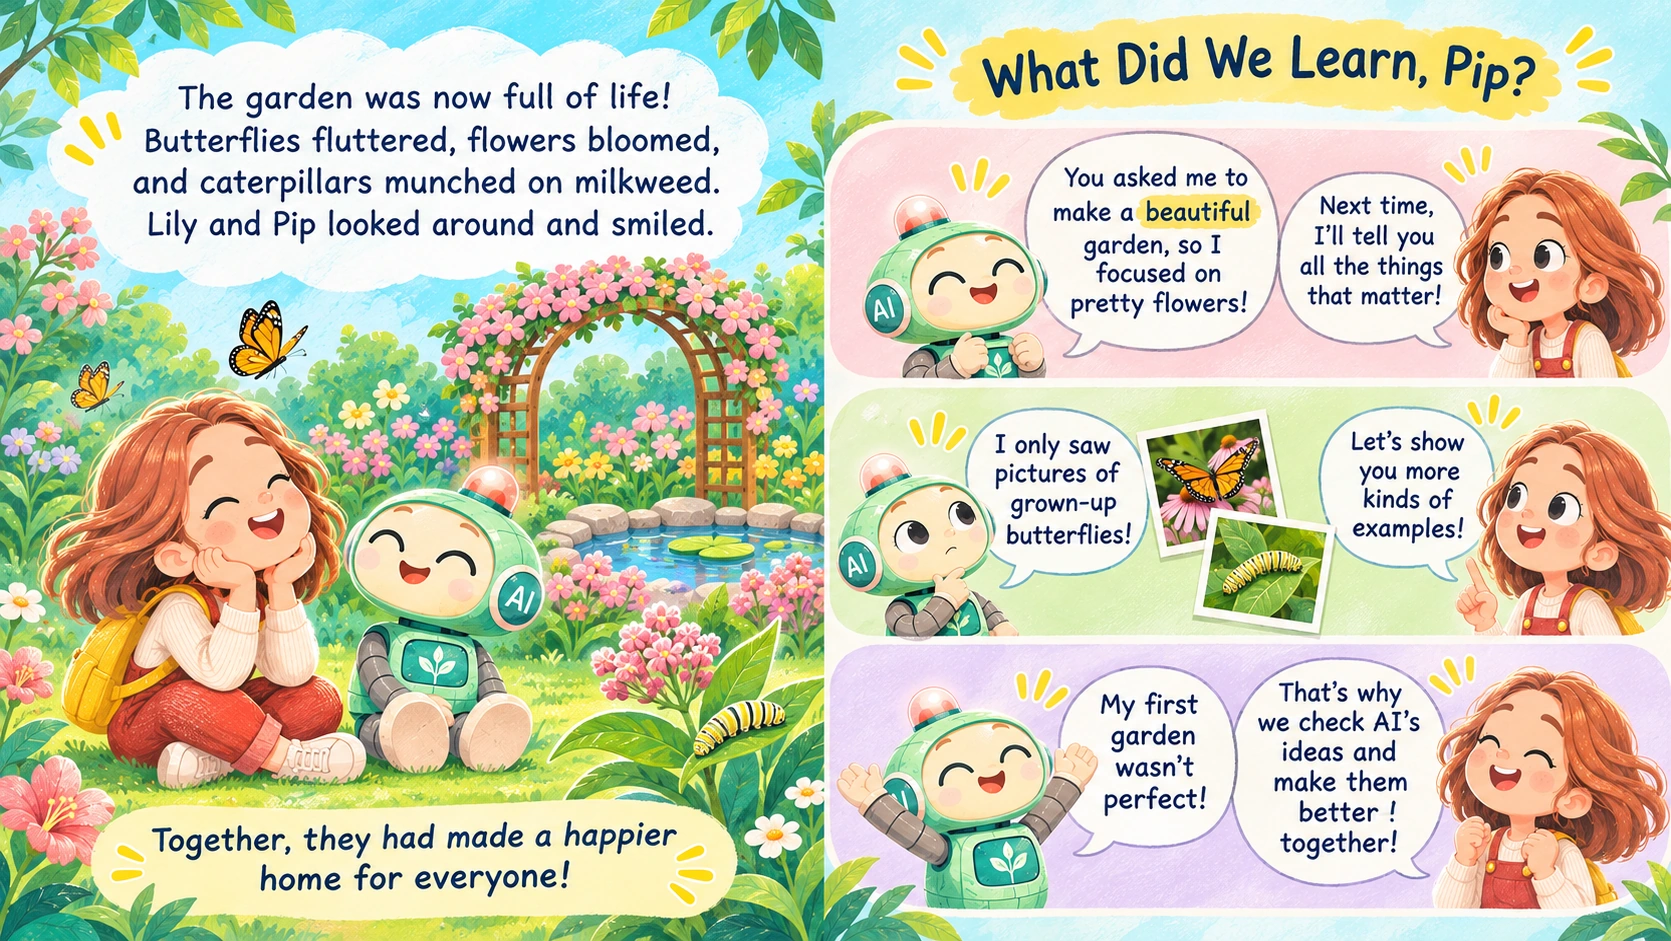
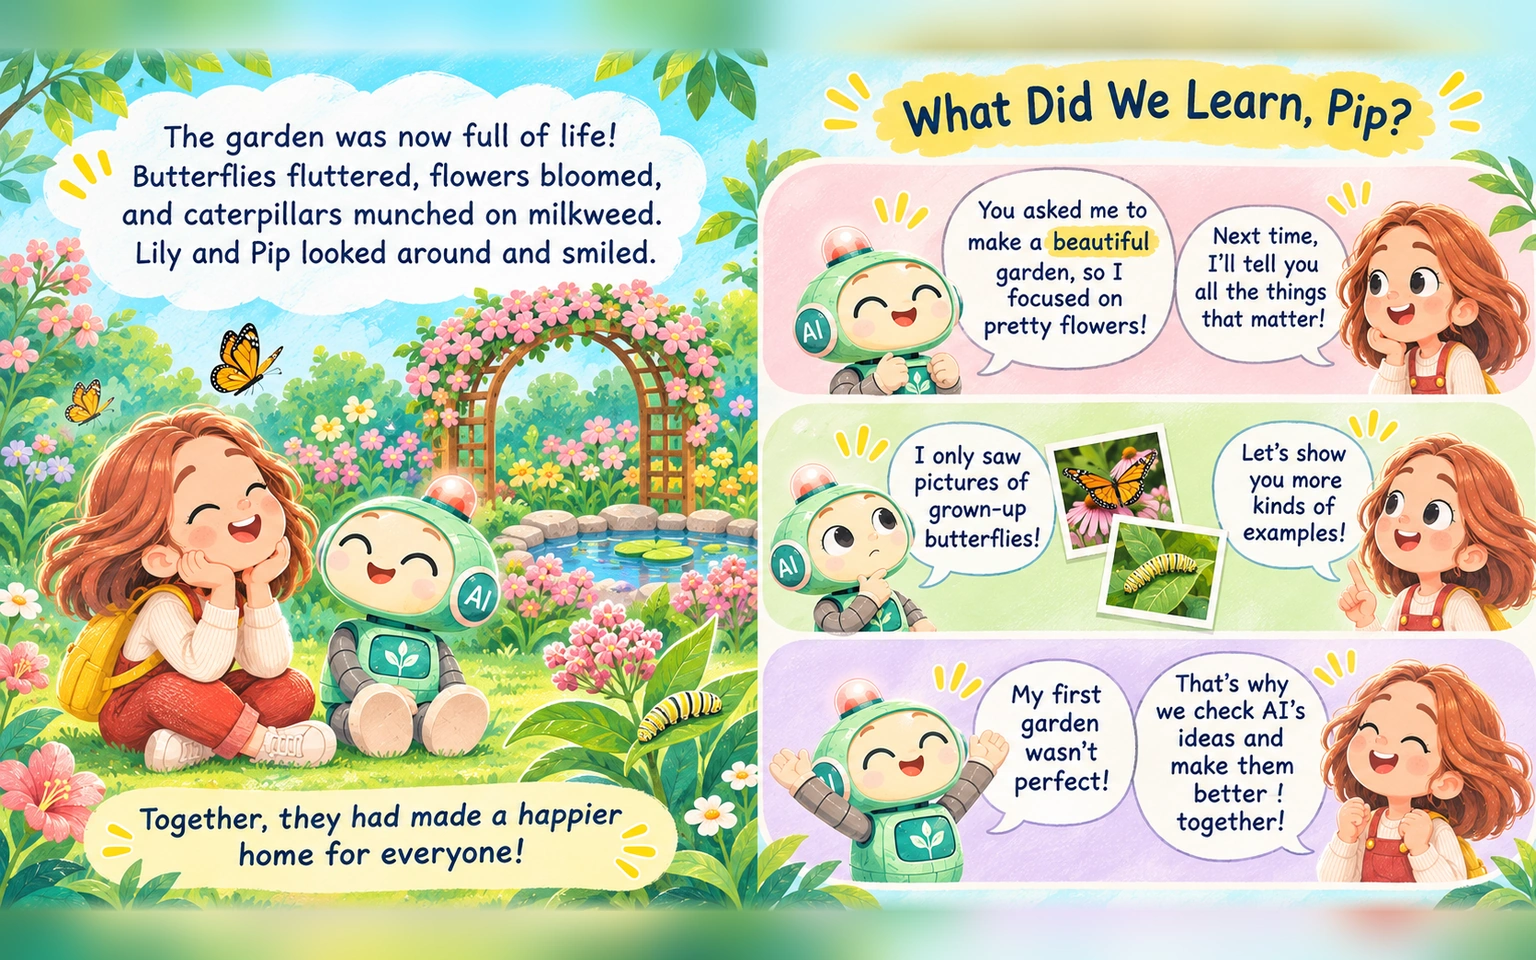
Fix Chapter 3 reflection artwork to native 8:5 spread without stretching

diff --git a/src/chapters/chapter3/Chapter3Ending.jsx b/src/chapters/chapter3/Chapter3Ending.jsx
@@ -10,7 +10,7 @@ export default function Chapter3Ending() {
     <img
       className="ch3-ending-illustration"
       src="/chapter3/ch3-ending-full.webp"
-      width="1671" height="941"
+      width="1536" height="960"
       alt="Lily and Pip smile in their thriving butterfly garden. On the other page, they discuss goals, seeing more examples, and checking AI ideas together."
       draggable="false"
       decoding="async"

diff --git a/src/chapters/chapter3/Chapter3Ending.css b/src/chapters/chapter3/Chapter3Ending.css
@@ -14,7 +14,7 @@
   display:block;
   width:100%;
   height:100%;
-  object-fit:fill; /* Fit the complete 16:9 artwork to the book's 8:5 spread; never crop dialogue. */
+  object-fit:contain; /* The updated artwork is natively 8:5, matching the spread without any distortion. */
   image-rendering:auto;
   user-select:none;
   -webkit-user-drag:none;
